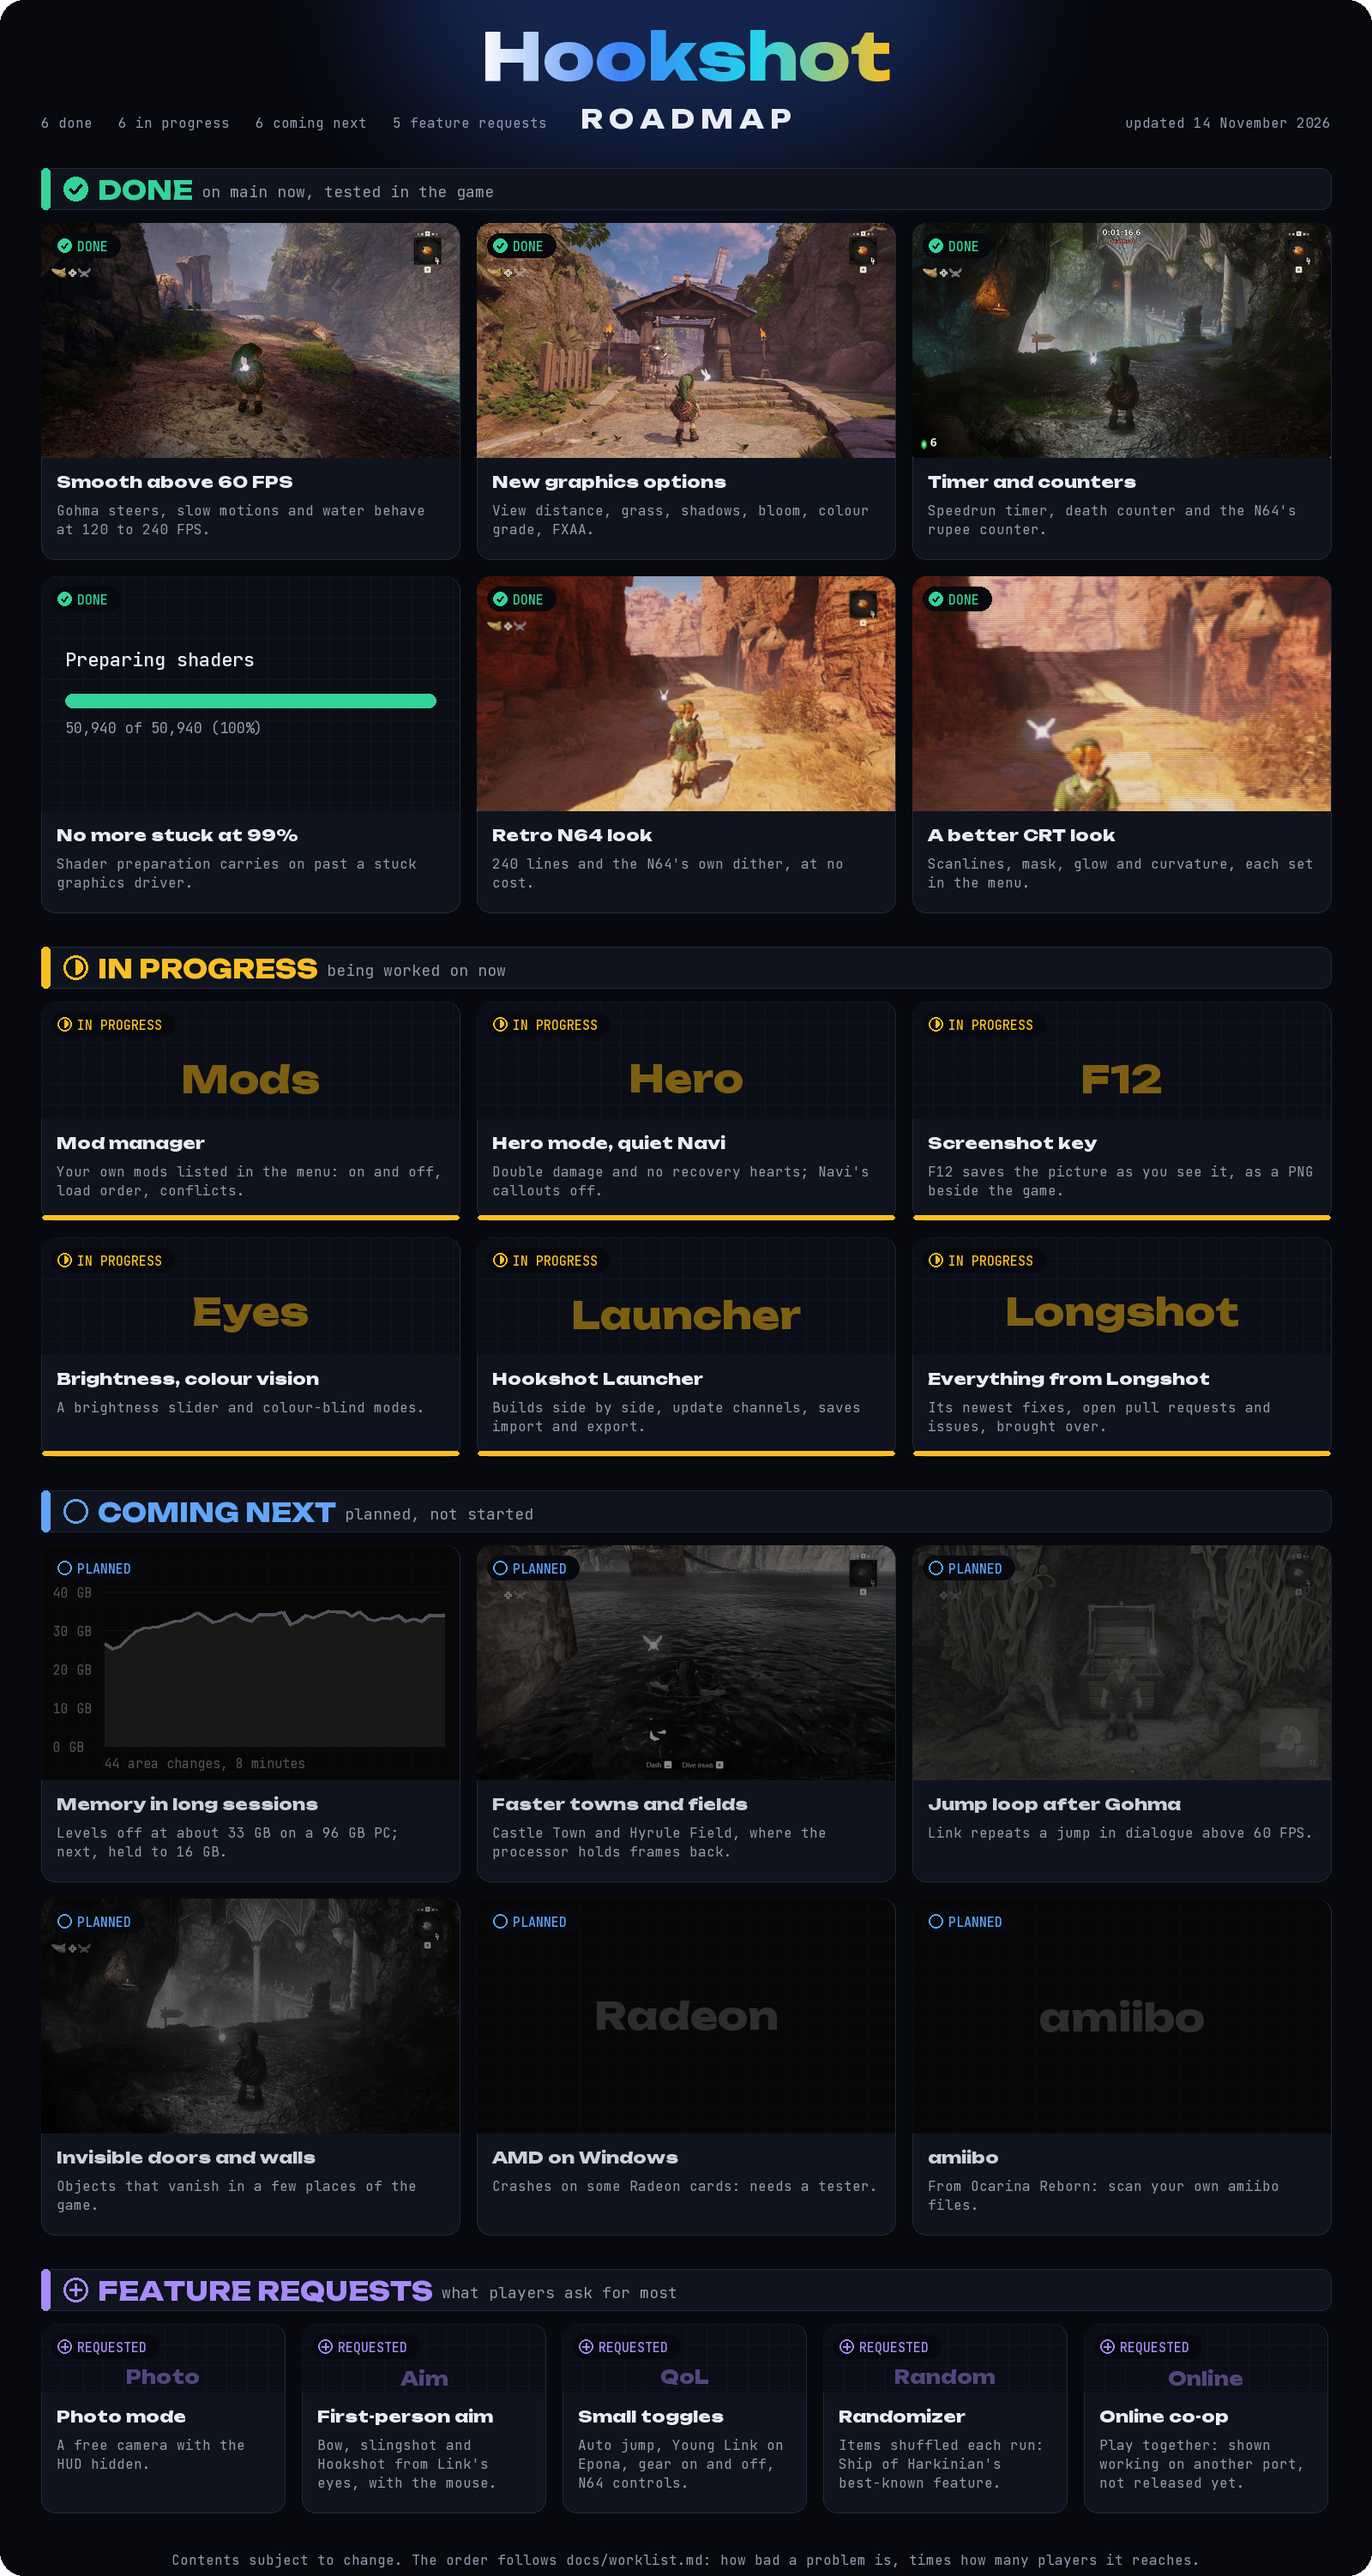
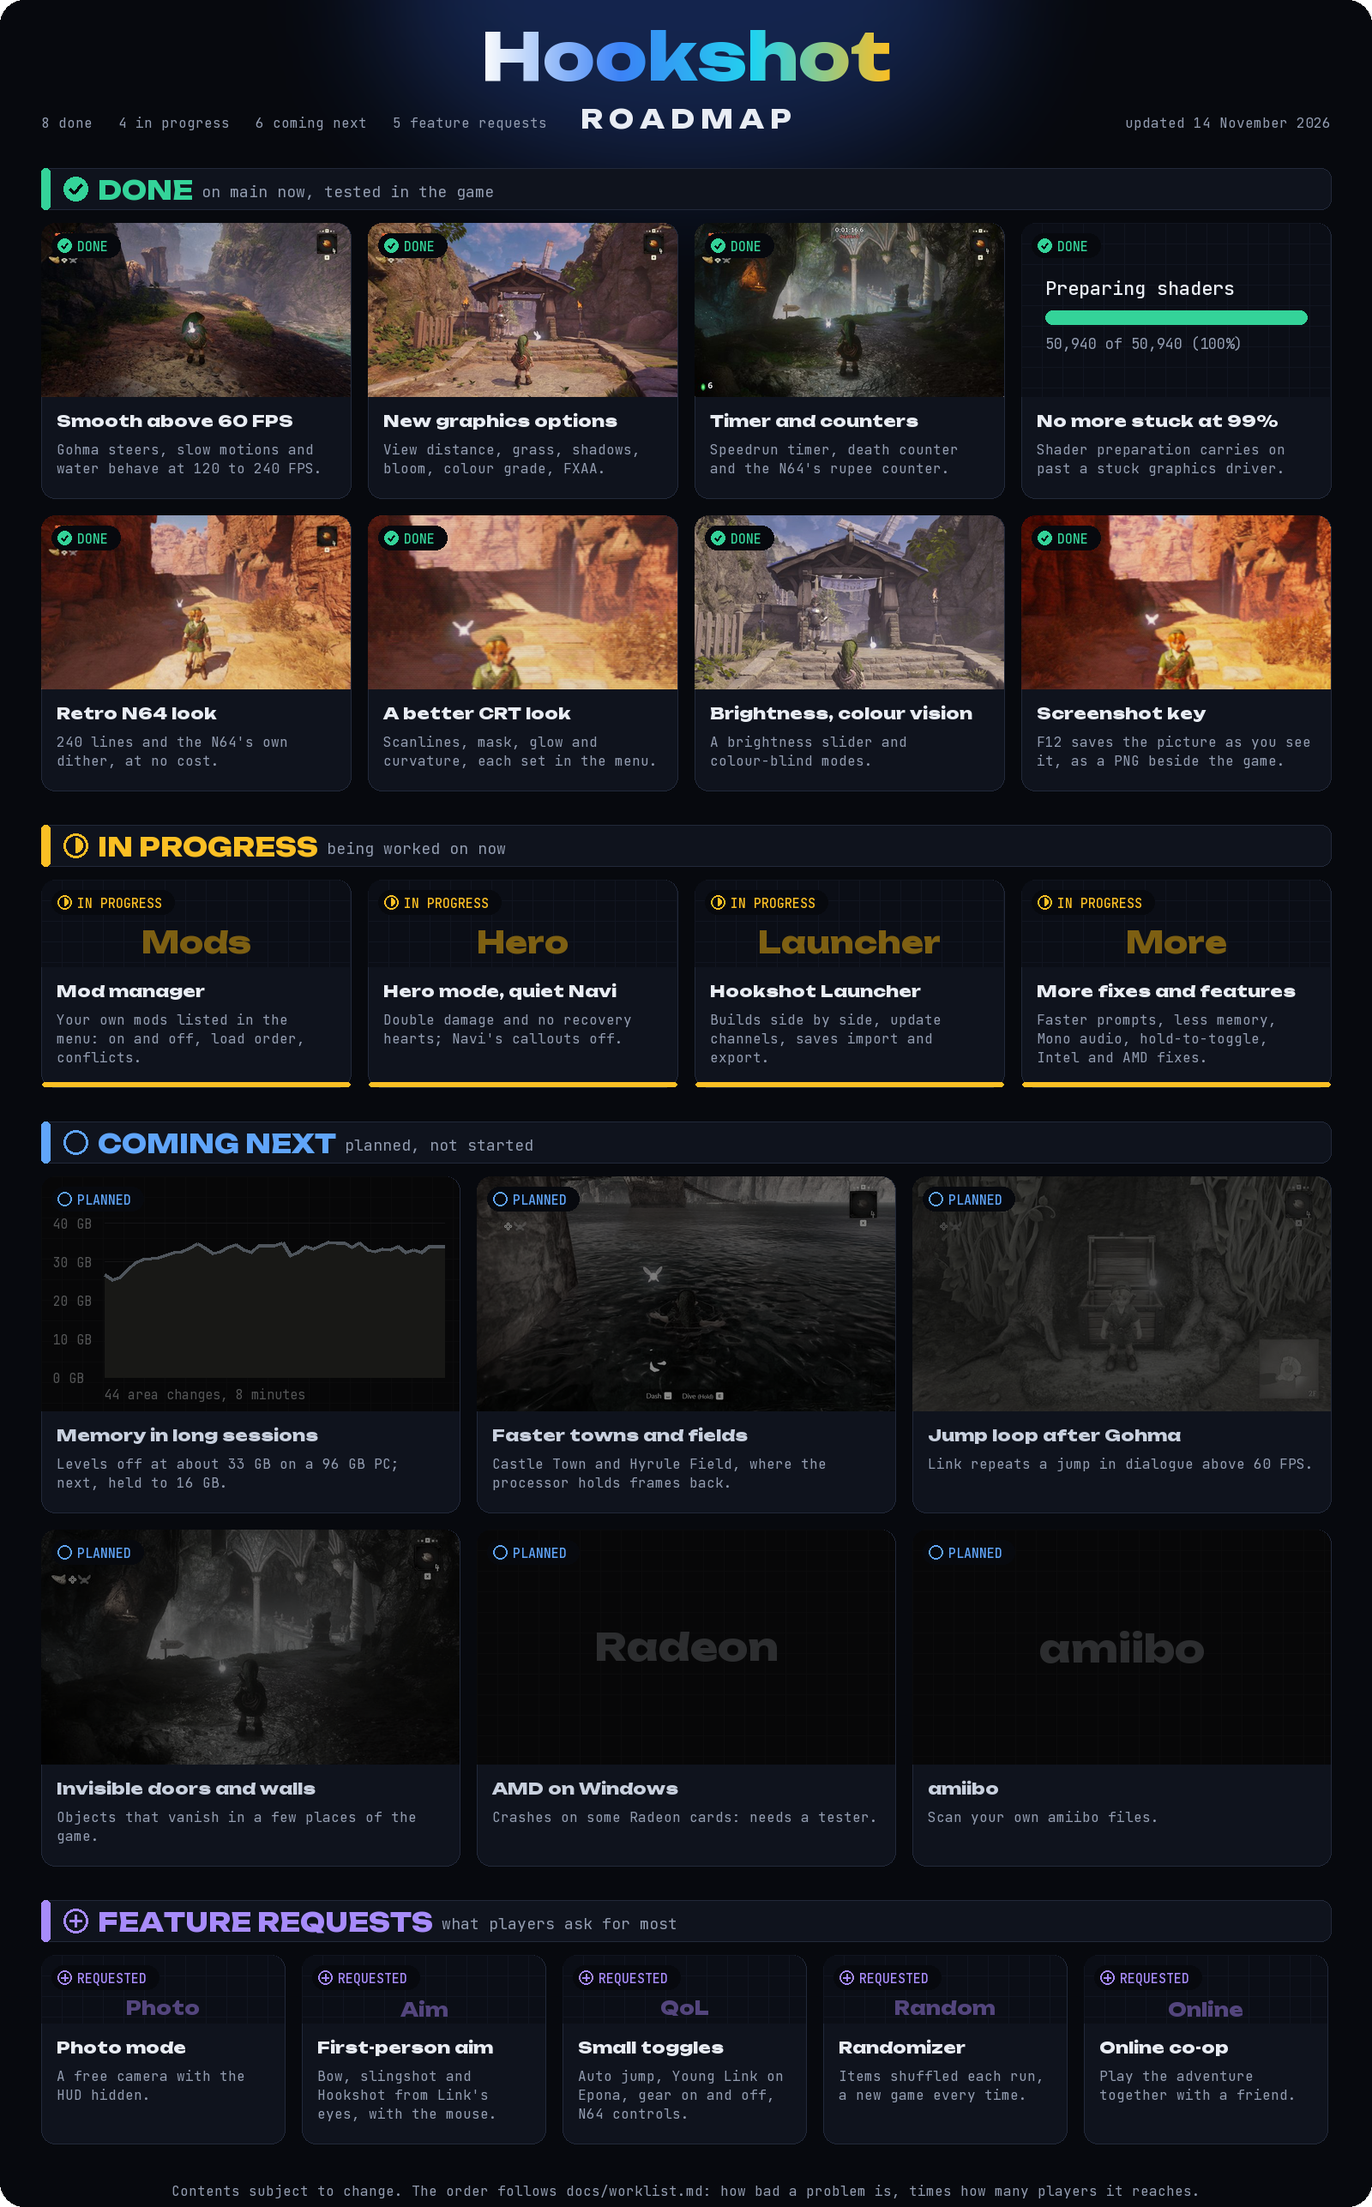
docs(readme): Brightness, Colour vision and the F12 screenshot key done, tested in the game; no other projects named in the roadmap
Brightness (80 to 150%) in a shaded corner of Kokiri Forest and Colour vision in Kakariko were captured from the window
on the side screen; F12 saved ten PNGs with N64 + CRT and Vivid on, matching the window without the menu, and the frame
rate held at 59-60 FPS through each save. The roadmap and What's new describe each feature on its own (the credits keep
naming the people whose work is in it).

diff --git a/scripts/make_roadmap.py b/scripts/make_roadmap.py
@@ -30,14 +30,14 @@ STAGES = [
         ("panel:shaders", "No more stuck at 99%", "Shader preparation carries on past a stuck graphics driver."),
         ("retro.jpg", "Retro N64 look", "240 lines and the N64's own dither, at no cost."),
         ("crt.jpg", "A better CRT look", "Scanlines, mask, glow and curvature, each set in the menu."),
+        ("eyes.jpg", "Brightness, colour vision", "A brightness slider and colour-blind modes."),
+        ("f12.jpg", "Screenshot key", "F12 saves the picture as you see it, as a PNG beside the game."),
     ]),
     ("doing", "IN PROGRESS", "being worked on now", AMBER, [
         ("panel:name:Mods", "Mod manager", "Your own mods listed in the menu: on and off, load order, conflicts."),
         ("panel:name:Hero", "Hero mode, quiet Navi", "Double damage and no recovery hearts; Navi's callouts off."),
-        ("panel:name:F12", "Screenshot key", "F12 saves the picture as you see it, as a PNG beside the game."),
-        ("panel:name:Eyes", "Brightness, colour vision", "A brightness slider and colour-blind modes."),
         ("panel:name:Launcher", "Hookshot Launcher", "Builds side by side, update channels, saves import and export."),
-        ("panel:name:Longshot", "Everything from Longshot", "Its newest fixes, open pull requests and issues, brought over."),
+        ("panel:name:More", "More fixes and features", "Faster prompts, less memory, Mono audio, hold-to-toggle, Intel and AMD fixes."),
     ]),
     ("next", "COMING NEXT", "planned, not started", BLUE, [
         ("chart:memory", "Memory in long sessions", "Levels off at about 33 GB on a 96 GB PC; next, held to 16 GB."),
@@ -45,7 +45,7 @@ STAGES = [
         ("gohma.jpg", "Jump loop after Gohma", "Link repeats a jump in dialogue above 60 FPS."),
         ("invisible.jpg", "Invisible doors and walls", "Objects that vanish in a few places of the game."),
         ("panel:amd", "AMD on Windows", "Crashes on some Radeon cards: needs a tester."),
-        ("panel:amiibo", "amiibo", "From Ocarina Reborn: scan your own amiibo files."),
+        ("panel:amiibo", "amiibo", "Scan your own amiibo files."),
     ]),
     # (what players of the remake ask for most, from GameBanana's likes and requests and the ports' coverage in its first
     # week; only what Hookshot can build as a toggle over the player's own game files: no Nintendo assets)
@@ -53,8 +53,8 @@ STAGES = [
         ("panel:name:Photo", "Photo mode", "A free camera with the HUD hidden."),
         ("panel:name:Aim", "First-person aim", "Bow, slingshot and Hookshot from Link's eyes, with the mouse."),
         ("panel:name:QoL", "Small toggles", "Auto jump, Young Link on Epona, gear on and off, N64 controls."),
-        ("panel:name:Random", "Randomizer", "Items shuffled each run: Ship of Harkinian's best-known feature."),
-        ("panel:name:Online", "Online co-op", "Play together: shown working on another port, not released yet."),
+        ("panel:name:Random", "Randomizer", "Items shuffled each run, a new game every time."),
+        ("panel:name:Online", "Online co-op", "Play the adventure together with a friend."),
     ]),
 ]
 PER_ROW = 4   # (a stage of more than five cards wraps, four to a row)

diff --git a/readme.md b/readme.md
@@ -104,17 +104,29 @@ and the cliffs around it fit on screen.
 <img src="docs/images/features/retro-look.jpg" alt="Gerudo Valley with adult Link: Retro look off, and N64 with the picture at 240 lines and the console's dither, full frame and 1:1 pixels">
 
 **Retro look** (Graphics tab, off by default) brings back the 1998 picture: **N64** draws the game at the console's 240
-lines, with colours cut to 16 bits through the N64's own 4x4 "magic square" dither (the same matrix angrylion's
-cycle-accurate N64 renderer uses), scaled up soft. It costs nothing measurable (60 FPS either way on an RTX 5090), and
+lines, with colours cut to 16 bits through the N64's own 4x4 "magic square" dither, scaled up soft. It costs nothing measurable (60 FPS either way on an RTX 5090), and
 the Insert menu stays sharp over it.
 
 <img src="docs/images/features/crt-look.jpg" alt="Gerudo Valley with N64 + CRT at 1:1 pixels: the default look, then a shadow mask with strong curvature, strong scanlines with a slot mask and high glow, and light scanlines with no mask">
 
-**N64 + CRT** puts that picture on a CRT, after Timothy Lottes' public-domain CRT shader: each line is a beam that
+**N64 + CRT** puts that picture on a CRT: each line is a beam that
 widens where the picture is bright, so dark parts show the lines and bright parts fill out without the picture getting
 darker, with a phosphor mask on your screen's own pixels, a soft glow and a curved screen. Five rows set it to taste:
 **CRT scanlines** (Off to Strong), **CRT mask** (aperture grille, slot or shadow mask), **CRT mask strength**, **CRT glow**
 and **CRT curvature**. The pictures above are 1:1: a shrunk screenshot of a mask shows stripes the screen does not.
+
+### Brightness, colour vision and a screenshot key
+
+<img src="docs/images/features/brightness-colour-vision.jpg" alt="Top: a shaded corner of Kokiri Forest at brightness 80, 100, 130 and 150 percent. Bottom: Kakariko Village with colour vision off, then protanopia, deuteranopia and tritanopia">
+
+**Brightness** (Graphics tab, 70% to 150%) lifts or darkens the shadows and mid-tones while black stays black and white
+stays white, for screens without HDR. **Colour vision** (Off, Protanopia, Deuteranopia, Tritanopia) moves the colours
+each kind of colour blindness confuses to ones that can be told apart; greys and the HUD's text stay as they are. It is
+meant to look different to other eyes.
+
+**F12 saves a screenshot** as a PNG in a `screenshots` folder beside the game, as the window shows it (with the Retro
+look, Colour grade, Brightness and the rest) but without the Insert menu or the FPS counter. Saving runs beside the game:
+the frame rate held at 59 to 60 FPS through ten presses on an RTX 5090. The Screenshot key row (Controls tab) turns it off.
 
 ### DLSS 5 neural rendering, tested
 
@@ -145,7 +157,7 @@ when the game closes.
 ## Roadmap
 
 <p align="center">
-  <img src="assets/brand/roadmap.png" alt="Hookshot roadmap: 6 done, 6 in progress, 6 coming next, 5 feature requests, each as a card. The same items are listed as text below." width="820">
+  <img src="assets/brand/roadmap.png" alt="Hookshot roadmap: 8 done, 4 in progress, 6 coming next, 5 feature requests, each as a card. The same items are listed as text below." width="820">
 </p>
 
 **Done** is on `main` now. **In progress** is being worked on at the moment. **Coming next** is planned but not
@@ -159,26 +171,25 @@ reaches.
 
 - **Smooth above 60 FPS:** Gohma steers instead of sticking to the walls, slow motions keep their length, water, ice
   and sand keep moving
-- **New graphics options:** View distance, Grass and Shadow distance (memory locations by hotoni, via Ocarina Reborn),
-  Bloom, Colour grade and FXAA
+- **New graphics options:** View distance, Grass and Shadow distance, Bloom, Colour grade and FXAA
 - **Timer and counters:** Speedrun timer, Death counter and the N64's rupee counter
 - **No more stuck at 99%:** the Builder's shader preparation carries on past a graphics driver that never finishes a
   shader, and closing the game while shaders build no longer counts against you
 - **Retro N64 look:** the picture at the console's 240 lines with its own dither; the loading screen's 3D Hookshot
 - **A better CRT look:** scanline beams, a phosphor mask, glow and curvature for the Retro look, each set in the menu
-  (after Timothy Lottes' public-domain CRT shader)
-- Also: the one-click Windows HDR launcher, fixes from the Longshot fork and Ocarina Reborn, the water's per-light
-  shadow maps (YakuzaFanA), several users, each game in its own folders, the RX 6600 / 6650 XT / 6500 XT fallback
+- **Brightness and colour vision:** a brightness slider for screens without HDR, and colour-blind modes
+- **Screenshot key:** F12 saves the picture as you see it, as a PNG beside the game
+- Also: the one-click Windows HDR launcher, the water's per-light shadow maps, several users, each game in its own
+  folders, the RX 6600 / 6650 XT / 6500 XT fallback
 
 **🟡 In progress**: being worked on now
 
 - **Mod manager:** your own mods listed in the menu, on and off, their load order and conflicts
 - **Hero mode and quiet Navi:** double damage and no recovery hearts; Navi's callouts off
-- **Screenshot key:** F12 saves the picture as you see it (with the Retro look or Colour grade), as a PNG beside the game
-- **Brightness and colour vision:** a brightness slider for non-HDR displays and colour-blind modes
-- **Hookshot Launcher:** after the Longshot Launcher: several builds side by side, stable, release-candidate and nightly
+- **Hookshot Launcher:** several builds side by side, stable, release-candidate and nightly
   channels, saves imported from emulators and exported, an installer and updates of its own, in Hookshot's 3D look
-- **Everything from Longshot:** its newest fixes, and its open pull requests and issues sorted and brought over
+- **More fixes and features:** faster button prompts, less memory, Mono audio, hold-to-toggle buttons, a hidden
+  cursor in play, fixes for Intel and AMD cards, and more
 
 **⚪ Coming next**: planned, not started
 
@@ -188,17 +199,17 @@ reaches.
 - **Jump loop after Gohma:** Link repeating a jump in dialogue above 60 FPS
 - **Invisible doors and walls** in a few places of the game
 - **AMD on Windows:** crashes on some Radeon cards (needs an AMD tester)
-- **amiibo**, from Ocarina Reborn
+- **amiibo:** scan your own amiibo files
 - Later: a signed Builder, Intel cards, cards without mesh shaders
 
-**➕ Feature requests**: what players of the remake ask for most (GameBanana's most-liked mods and requests, and the
-ports' coverage, in its first week), limited to what Hookshot can build as a toggle over your own game files
+**➕ Feature requests**: what players of the remake ask for most, limited to what Hookshot can build as a toggle over
+your own game files
 
 - **Photo mode:** a free camera with the HUD hidden
 - **First-person aim:** bow, slingshot and Hookshot from Link's eyes, with the mouse
 - **Small toggles:** auto jump, Young Link on Epona, gear on and off, N64-style controls
-- **Randomizer:** items shuffled each run, Ship of Harkinian's best-known feature
-- **Online co-op:** shown working on another port, not released yet
+- **Randomizer:** items shuffled each run, a new game every time
+- **Online co-op:** play the adventure together with a friend
 
 Mods that swap in Nintendo's own models, textures, music or voices are for players to add from their own files
 (Hookshot loads them from the `mods` folder, see [Mods](#mods)); the project ships none of them.
@@ -548,13 +559,13 @@ HDR, Detail, and GPU and memory (last: the rows to change when something is wron
 | | Bloom | Off, Low, Medium, High (a glow around bright light; not with HDR set to Native; changes at once) | Off |
 | | Colour grade | Off, Rich, Vivid, Warm, Cool, Cinematic (not with HDR set to Native; changes at once) | Off |
 | | Brightness | 70% to 150% (a gamma curve: the mid-tones lighter or darker, black and white kept; for SDR, with HDR on set HDR paper white instead; changes at once) | 100% |
-| | Colour vision | Off, Protanopia, Deuteranopia, Tritanopia (daltonization for colour blindness: the colours it confuses moved to ones that can be told apart, by Machado et al.'s 2009 model and the daltonize error shift after Fidaner et al.; not a simulation; greys unchanged; not with HDR set to Native; changes at once) | Off |
-| | Retro look | Off, N64 (the picture at the Nintendo 64's 240 lines, soft, its colours cut to 16 bits with the console's dither), N64 + CRT (that picture on a CRT, after Timothy Lottes' CRT shader, set by the five CRT rows below); in the Window scaling filter's, FXAA's and Sharpness's place, the menu left sharp; not with HDR set to Native; changes at once | Off |
+| | Colour vision | Off, Protanopia, Deuteranopia, Tritanopia (daltonization for colour blindness: the colours it confuses moved to ones that can be told apart; not a simulation; greys unchanged; not with HDR set to Native; changes at once) | Off |
+| | Retro look | Off, N64 (the picture at the Nintendo 64's 240 lines, soft, its colours cut to 16 bits with the console's dither), N64 + CRT (that picture on a CRT, set by the five CRT rows below); in the Window scaling filter's, FXAA's and Sharpness's place, the menu left sharp; not with HDR set to Native; changes at once | Off |
 | | CRT scanlines | Off, Light, Medium, Strong (the dark between the lines of light; bright parts fill out; with Retro look N64 + CRT) | Medium |
 | | CRT mask | Off, Aperture grille, Slot mask, Shadow mask (the screen's red, green and blue on your screen's pixels; with N64 + CRT) | Aperture grille |
 | | CRT mask strength | 10% to 100% (the picture keeps its brightness; with N64 + CRT) | 30% |
 | | CRT glow | Off, Low, Medium, High (light spreading in the glass around bright parts; with N64 + CRT) | Medium |
-| | CRT curvature | Off, Subtle, Strong (a curved screen with darker corners; Strong as Lottes' shader; with N64 + CRT) | Subtle |
+| | CRT curvature | Off, Subtle, Strong (a curved screen with darker corners; with N64 + CRT) | Subtle |
 | | Texture detail | Auto, Full, Medium, Low | Auto |
 | | Anisotropic filtering | Game's, 2x, 4x, 8x, 16x | 16x |
 | | View distance | Short, Original, Far, Very far, Max (how far trees, bushes and detailed models reach; changes at once) | Original |
